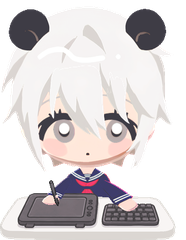
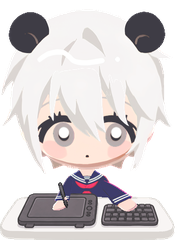
update v1786695474

diff --git a/mascot.py b/mascot.py
@@ -395,7 +395,8 @@ DEFAULT_SETTINGS = {
     "yt_signed": False,      # 유튜브에 로그인해 둔 적이 있는가 (프리미엄 적용)
     "yt_asked": False,       # 로그인 창을 한 번이라도 권했는가
     "shadow_on": False,      # 그림자를 한 번 켜 준 적이 있는가
-    "room_on": False,        # 같이 작업하는 방 (기본 꺼짐 — 켤 때 안내한다)
+    "room_on": True,         # 같이 작업하는 방 (기본 켜짐, 환경설정에서 끈다)
+    "room_seen": False,      # 처음 열 때 무엇이 오가는지 한 번 알려 줬는가
     "room_nick": "",         # 방에서 보일 이름 (비우면 캐릭터 이름)
     "room_code": "",         # 방 코드 (비우면 '홈')
 }
@@ -3535,6 +3536,10 @@ class Mascot:
         self._room_art_bad = set()   # 그림을 못 받은 자리 (다시 안 조른다)
         self._room_art_th = None
         self._photo_after = None     # 단체사진 안내 예약
+        self._room_ask_win = None    # 홈에 처음 들어갈 때 묻는 창
+        self._room_pick = None       # 방에서 고른 사람 (없으면 방 전체)
+        self._room_btn_hit = []      # 아래 단추 자리
+        self._room_sent = None
         self._sl_fg = 0.0            # 앞 창을 마지막으로 확인한 시각
         # 물성은 종류마다 다르다. 꺼낼 때 정하지만 여기서도 만들어 둔다
         # (조건문 뒤쪽에서 처음 만들면 몇 분 뒤에 터진다 — 지뢰 13).
@@ -3593,8 +3598,8 @@ class Mascot:
             self._slime_menu = sub
         if self.todo_on or self.cfg.get("deadline_on") or self._yt_on():
             menu.add_separator()
-        if self._room_on():
-            menu.add_command(label="같이 작업하는 방", command=self._room_toggle)
+        if ROOM_URL and ROOM_KEY:
+            menu.add_command(label="홈", command=self._room_toggle)
         menu.add_command(label="환경설정", command=self.open_settings)
         if self.cfg.get("update_dot"):
             menu.add_command(label="업데이트 소식", command=self.open_update_news)
@@ -12237,7 +12242,7 @@ class Mascot:
         "parts_dororong_gift": ("dororong-mascot", "parts_dororong_gift"),
         "parts_dororong": ("dororong-mascot", "parts_dororong_gift"),
     }
-    ROOM_COLS, ROOM_CW, ROOM_CH, ROOM_TOP = 3, 230, 236, 62
+    ROOM_COLS, ROOM_CW, ROOM_CH, ROOM_TOP = 3, 230, 248, 62
     ROOM_FIG = 112               # 방에서 캐릭터를 그리는 높이(px)
 
     def _room_on(self):
@@ -12257,10 +12262,16 @@ class Mascot:
             st = "work"
         else:
             st = "away"
+        now = time.time()
+        act = ""
+        if st == "work":
+            # 최근에 무엇을 만졌는지 — 방에서 그 자세로 보여 준다
+            act = "key" if (now - self.last_pointer > 2.0
+                            and now - self.last_key < 1.8) else "pen"
         return {"n": self._room_nick()[:14], "lv": self._level(),
                 "ti": self._title()[:14], "t": int(today // 60), "s": st,
                 "p": round(min(1.0, today / goal), 3),
-                "sl": bool(self.slime)}
+                "a": act, "sl": bool(self.slime)}
 
     def _room_start(self):
         if self.room_net is not None or not self._room_on():
@@ -12318,6 +12329,10 @@ class Mascot:
             self._say("%s가 담요를 덮어 줬어요" % who if who else "담요를 덮어 줬어요",
                       3.5)
             self.smile_until = max(self.smile_until, now + 3.0)
+        elif kind == "cheer":
+            self.smile_until = max(self.smile_until, now + 3.0)
+            self._say("%s가 응원했어요" % who if who else "누가 응원했어요", 3.5)
+            self._safe("room_cheer", self._burst, 10, 26)
         elif kind == "snack":
             self._say("%s가 간식을 놓고 갔어요" % who if who else "간식이 놓여 있어요",
                       3.5)
@@ -12342,7 +12357,8 @@ class Mascot:
             slot = p.get("slot") or ""
             if slot not in self.ROOM_ART or slot in self._room_art_bad:
                 continue
-            for tag in ("seat", "seat_idle"):
+            for tag in ("seat", "seat_idle", "seat_type", "seat_pen",
+                        "seat_pen2"):
                 if os.path.isfile(os.path.join(HERE, slot, tag + ".png")):
                     continue                      # 원본이 여기 있다
                 if not os.path.isfile(os.path.join(self._room_art_dir(),
@@ -12382,6 +12398,8 @@ class Mascot:
         if got is not None:
             return got
         p = os.path.join(self._room_art_dir(), "%s_%s.png" % (slot, tag))
+        if not os.path.isfile(p) and tag not in ("seat", "seat_idle"):
+            return self._room_img(slot, "seat")     # 옛 배포본 — 기본 자세로
         if not os.path.isfile(p):
             # 그 캐릭터 폴더가 내 컴퓨터에 있으면 받아 올 것도 없다
             # (원본을 쓰는 쪽. 친구들은 배포 레포에서 받는다)
@@ -12409,17 +12427,17 @@ class Mascot:
     def _room_palette(self):
         """시간에 따라 방 분위기가 바뀐다 (작업일 기준이 아니라 시계 기준)."""
         h = time.localtime().tm_hour
-        if 6 <= h < 17:
-            return {"wall": "#f7eee4", "dot": "#f1e6d9", "card": "#fffdfa",
-                    "line": "#f0e5d8", "ink": "#68564c", "sub": "#a29186",
-                    "bar": "#fffbf5", "lamp": "#ffe2a8"}
-        if 17 <= h < 20:
-            return {"wall": "#f6e6da", "dot": "#efdccc", "card": "#fffaf3",
-                    "line": "#eeddcc", "ink": "#6b4f42", "sub": "#a89083",
-                    "bar": "#fff7ee", "lamp": "#ffcf8a"}
-        return {"wall": "#e7e3ef", "dot": "#ded9ea", "card": "#faf8ff",
-                "line": "#ddd6ea", "ink": "#4e485e", "sub": "#8d879c",
-                "bar": "#f4f1fa", "lamp": "#cfd6ff"}
+        if 6 <= h < 17:                      # 낮 — 아주 연한 핑크
+            return {"wall": "#fdf2f6", "dot": "#f8e6ee", "card": "#fffcfd",
+                    "line": "#f6e2ea", "ink": "#6f5460", "sub": "#a8919c",
+                    "bar": "#fffafc", "lamp": "#ffd9e6"}
+        if 17 <= h < 20:                     # 저녁 — 조금 더 따뜻하게
+            return {"wall": "#fbeceF".replace("F", "f"), "dot": "#f6dfe6",
+                    "card": "#fffafb", "line": "#f4dde5", "ink": "#6d4e58",
+                    "sub": "#a68b95", "bar": "#fff8fa", "lamp": "#ffcbd9"}
+        return {"wall": "#f2e9f2", "dot": "#e8dced", "card": "#fdfaff",
+                "line": "#e6d9e8", "ink": "#584a5c", "sub": "#96879a",
+                "bar": "#fbf6fc", "lamp": "#e2cfe8"}
 
     def _room_reset(self):
         """방 코드나 켬/끔이 바뀌었을 때 — 끊고 다시 붙는다."""
@@ -12429,10 +12447,92 @@ class Mascot:
         self._room_flash.clear()
 
     def _room_toggle(self):
+        """우클릭 > 홈. 처음이면 무엇이 나가는지 알려 주고 물어본다."""
         if self.room_win is not None:
             self._room_close()
-        else:
+        elif self.us.get("room_seen") and self.us.get("room_on"):
             self._safe("room_open", self._room_open)
+        else:
+            self._safe("room_ask", self._room_ask)
+
+    def _room_ask(self):
+        """켜기 전에 한 번만 — 무엇이 나가고 무엇은 안 나가는지."""
+        if getattr(self, "_room_ask_win", None) is not None                 and self._room_ask_win.winfo_exists():
+            self._room_ask_win.lift()
+            return
+        cd, u = self.card, self._ui
+        W, H = u(372), u(268)
+        win = tk.Toplevel(self.root)
+        self._room_ask_win = win
+        win.title("홈")
+        win.attributes("-topmost", True)
+        win.resizable(False, False)
+        win.configure(bg=cd["panel"])
+        cv = tk.Canvas(win, width=W, height=H, bg=cd["panel"],
+                       highlightthickness=0)
+        cv.pack()
+        self._rr(cv, u(14), u(12), W - u(14), u(46), u(12), fill=cd["soft"],
+                 outline=cd["border"], width=2)
+        cv.create_text(W / 2, u(29), text="친구들과 같이 앉아서 작업해요",
+                       font=self._uf(10, True), fill=cd["text"])
+        lines = [
+            ("보내는 것", True),
+            ("· 방에서 보일 이름 (기본은 캐릭터 이름)", False),
+            ("· 레벨과 칭호", False),
+            ("· 오늘 작업한 시간, 지금 작업 중인지 자는지", False),
+            ("보내지 않는 것", True),
+            ("· 어떤 프로그램을 쓰는지, 창 제목", False),
+            ("· 그린 그림, 할 일, 마감, 그 밖의 모든 것", False),
+        ]
+        y = u(64)
+        for text, head in lines:
+            cv.create_text(u(26), y, anchor="w", text=text,
+                           font=self._uf(9, True) if head else self._uf(9),
+                           fill=cd["fill"] if head else cd["text"])
+            y += u(23) if head else u(20)
+            if head:
+                y -= u(3)
+        cv.create_text(W / 2, H - u(62), text="환경설정에서 언제든 끌 수 있어요",
+                       font=self._uf(8), fill=cd["sub"])
+
+        def go():
+            self.us["room_seen"] = True
+            self.us["room_on"] = True
+            self._safe("room_save", self._save_settings)
+            win.destroy()
+            self._room_ask_win = None
+            self._safe("room_open", self._room_open)
+
+        def no():
+            # 이 자리에서 바로 끌 수 있게 — 설정을 뒤지게 하지 않는다
+            self.us["room_seen"] = True
+            self.us["room_on"] = False
+            self._safe("room_save", self._save_settings)
+            self._safe("room_off", self._room_reset)
+            win.destroy()
+            self._room_ask_win = None
+
+        for label, fn, x0, strong in (("들어가기", go, W / 2 + u(6), True),
+                                      ("끄기", no, W / 2 - u(114), False)):
+            self._rr(cv, x0, H - u(44), x0 + u(108), H - u(14), u(15),
+                     fill=cd["fill"] if strong else cd["soft"],
+                     outline="" if strong else cd["border"],
+                     width=0 if strong else 1)
+            cv.create_text(x0 + u(54), H - u(29), text=label,
+                           font=self._uf(9, True),
+                           fill="#ffffff" if strong else cd["text"])
+            cv.tag_bind(cv.create_rectangle(x0, H - u(44), x0 + u(108),
+                                            H - u(14), fill="", outline=""),
+                        "<Button-1>", lambda e, f=fn: f())
+        def later():
+            # 그냥 닫은 것은 고른 게 아니다 — 다음에 다시 알려 준다
+            win.destroy()
+            self._room_ask_win = None
+
+        win.protocol("WM_DELETE_WINDOW", later)
+        win.bind("<Escape>", lambda e: later())
+        x = self.root.winfo_rootx() + self.W + u(12)
+        win.geometry("+%d+%d" % (x, max(0, self.root.winfo_rooty())))
 
     def _room_close(self):
         if self._room_job is not None:
@@ -12489,7 +12589,7 @@ class Mascot:
         self._room_job = None
         if self.room_win is None:
             return
-        self._room_job = self.root.after(500, self._room_loop)   # 먼저 예약
+        self._room_job = self.root.after(120, self._room_loop)   # 먼저 예약
         self._safe("room_draw", self._room_draw)
 
     def _rr(self, cv, x0, y0, x1, y1, r, **kw):
@@ -12550,9 +12650,7 @@ class Mascot:
             cx0 = int(16 * k) + (i % self.ROOM_COLS) * cw
             cy0 = top + (i // self.ROOM_COLS) * chh
             self._room_one(cv, p, cx0, cy0, cw, chh, P, k)
-        cv.create_text(W // 2, H - 16 * k, anchor="center",
-                       text="캐릭터를 누르면 콕 찔러요 · 자는 사람에겐 담요를 덮어 줘요",
-                       font=self._uf(9), fill=P["sub"])
+        self._room_bar(cv, W, H, P, k, people)
 
     def _room_one(self, cv, p, cx0, cy0, cw, ch, P, k):
         slot = p.get("slot") or ""
@@ -12560,16 +12658,21 @@ class Mascot:
         col = self._room_tone(slot)
         kx0, ky0 = cx0 + 8 * k, cy0 + 6 * k
         kx1, ky1 = cx0 + cw - 8 * k, cy0 + ch - 16 * k
+        picked = (self._room_pick == slot)
         self._rr(cv, kx0, ky0, kx1, ky1, 18 * k, fill=P["card"],
-                 outline=P["line"], width=2)
-        floor = ky1 - 62 * k
+                 outline=col if picked else P["line"], width=3 if picked else 2)
+        floor = ky1 - 74 * k
         self._rr(cv, kx0 + 2, floor, kx1 - 2, ky1 - 2, 16 * k,
                  fill=self._tint(col, 0.72), width=0)
         cv.create_rectangle(kx0 + 2, floor, kx1 - 2, floor + 14 * k,
                             fill=self._tint(col, 0.72), width=0)
-        img = self._room_img(slot, "seat_idle" if sleeping else "seat")
+        img = self._room_img(slot, self._room_pose(p))
         if img is not None:
-            cv.create_image((kx0 + kx1) / 2, floor + 4 * k, image=img,
+            # 아주 살짝 위아래로 — 정지 그림이라도 멈춰 있어 보이지 않는다
+            bob = math.sin(time.time() * 1.7 + hash(slot) % 7) * (1.6 * k)
+            if sleeping:
+                bob *= 0.5
+            cv.create_image((kx0 + kx1) / 2, floor + 4 * k + bob, image=img,
                             anchor="s")
         else:
             cv.create_oval((kx0 + kx1) / 2 - 26 * k, floor - 56 * k,
@@ -12603,6 +12706,62 @@ class Mascot:
                        text="%d%%" % (pr * 100), font=self._uf(8), fill=P["sub"])
         # 자는 표시는 seat_idle 그림에 이미 들어 있다 (여기서 또 그리면 겹친다)
         self._room_hit.append((kx0, ky0, kx1, ky1, slot, sleeping))
+
+    ROOM_BTN = (("콕", "poke", "#ffd6e0"), ("응원", "cheer", "#ffe8ba"),
+                ("담요", "blanket", "#d6e8ff"), ("간식", "snack", "#def0d6"))
+
+    def _room_bar(self, cv, W, H, P, k, people):
+        """아래 단추 줄 — 고른 사람에게 보낸다. 아무도 안 골랐으면 방 전체."""
+        pick = self._room_pick
+        who = next((p for p in people if p.get("slot") == pick), None)
+        if pick == self.char:
+            who, pick = None, None
+        name = str(who.get("n") or "") if who else ""
+        cv.create_text(W // 2, H - 62 * k, anchor="center",
+                       text=("%s에게" % name) if name else "방에 있는 모두에게",
+                       font=self._uf(9), fill=P["sub"])
+        bw, gap = 46 * k, 14 * k
+        tot = len(self.ROOM_BTN) * bw + (len(self.ROOM_BTN) - 1) * gap
+        x = (W - tot) / 2
+        self._room_btn_hit = []
+        for label, kind, col in self.ROOM_BTN:
+            cv.create_oval(x + 2, H - 46 * k + 2, x + bw + 2, H - 46 * k + bw + 2,
+                           fill=P["line"], width=0)
+            cv.create_oval(x, H - 46 * k, x + bw, H - 46 * k + bw,
+                           fill=col, outline="#ffffff", width=2)
+            cv.create_text(x + bw / 2, H - 46 * k + bw / 2, text=label,
+                           font=self._uf(9, True), fill=P["ink"])
+            self._room_btn_hit.append((x, H - 46 * k, x + bw,
+                                       H - 46 * k + bw, kind))
+            x += bw + gap
+
+    def _room_send(self, kind):
+        """단추를 눌렀을 때 — 고른 사람에게, 아무도 안 골랐으면 방 전체에."""
+        if self.room_net is None:
+            return
+        to = self._room_pick
+        if not to or to == self.char:
+            to = "*"
+        self.room_net.send(to, kind)
+        self._room_flash[to if to != "*" else ""] = time.time()
+        self._room_sent = (kind, time.time())
+
+    def _room_pose(self, p):
+        """그 사람이 지금 뭘 하고 있는지에 맞는 그림을 고른다.
+
+        작업 중이면 두 자세를 번갈아 보여 준다 — 한 장만 쓰면 통째로 멈춰
+        보인다. 자세 그림이 없는 옛 배포본이면 _room_img 가 None 을 주므로
+        기본 자세로 물러난다.
+        """
+        if p.get("s") == "sleep":
+            return "seat_idle"
+        if p.get("s") != "work":
+            return "seat"
+        if p.get("a") == "key":
+            return "seat_type"
+        # 0.7초마다 손 위치가 바뀐다 (사람마다 박자를 어긋나게)
+        n = int(time.time() / 0.7 + (hash(p.get("slot") or "") % 3))
+        return "seat_pen" if n % 2 else "seat_pen2"
 
     def _room_tw(self, cv, text, font):
         """글자 폭 — 캔버스에 잠깐 그려 재고 지운다 (캐시는 안 쌓는다)."""
@@ -12701,15 +12860,21 @@ class Mascot:
         return tuple(int(str(c)[i:i + 2], 16) for i in (1, 3, 5))
 
     def _room_click(self, e):
+        for x0, y0, x1, y1, kind in self._room_btn_hit:
+            if x0 <= e.x <= x1 and y0 <= e.y <= y1:
+                self._safe("room_btn", self._room_send, kind)
+                return
         for x0, y0, x1, y1, slot, sleeping in self._room_hit:
             if x0 <= e.x <= x1 and y0 <= e.y <= y1:
-                if slot == self.char:
-                    self._say("저예요", 2.0)
-                    return
-                if self.room_net is not None:
+                # 누르면 고른다. 한 번 더 누르면 푼다(방 전체로 보낸다).
+                self._room_pick = None if self._room_pick == slot else slot
+                if slot != self.char and self.room_net is not None:
                     self.room_net.send(slot, "blanket" if sleeping else "poke")
-                self._room_flash[slot] = time.time()
+                    self._room_flash[slot] = time.time()
+                self._safe("room_draw", self._room_draw)
                 return
+        self._room_pick = None
+        self._safe("room_draw", self._room_draw)
 
     # ── 프리뷰 ───────────────────────────────────────────────────────────
     def _preview_shots(self):
